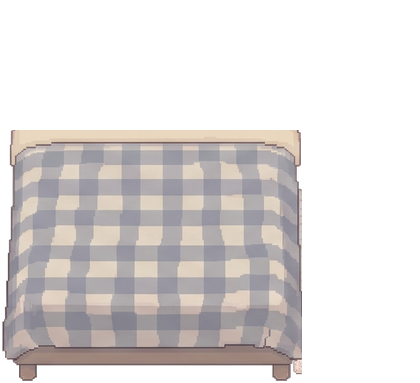
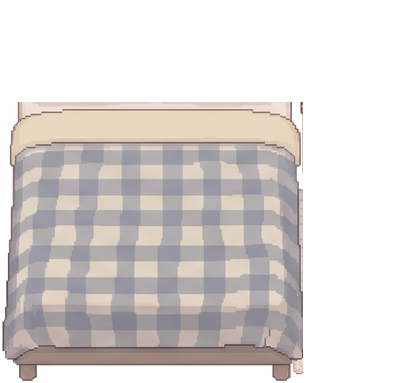
修复小家被子折边并清理前端遗留代码
- 从床体原图保留奶白折边，校准两张睡姿图与枕头的对齐
- 移除废弃主题及未使用样式，统一残留硬编码配色
- 对照早期交接去重整理 11 月 24 日提供的附件

Changed region(s): [[0.031, 0.2585, 0.7429, 0.3446]]

diff --git a/frontend/App.tsx b/frontend/App.tsx
@@ -1256,7 +1256,7 @@ function ProfileScreen({
       <View style={styles.profileSection}>
         {p.viewer.capabilities.openControls === true && (
           <Pressable style={styles.secondaryPill} onPress={onControls}>
-            <LiquidGlassSurface glass tint="light" style={StyleSheet.absoluteFill} />
+            <LiquidGlassSurface glass style={StyleSheet.absoluteFill} />
             <Text style={styles.secondaryPillText}>设置</Text>
           </Pressable>
         )}
@@ -1675,10 +1675,11 @@ function IdentitySwitcher({
 
   return (
     <Modal visible={visible} transparent animationType="slide" onRequestClose={onClose}>
-      <Pressable style={styles.modalBackdrop} onPress={onClose}>
-        <Pressable style={styles.sheet} onPress={() => undefined}>
+      <View style={styles.modalBackdrop}>
+        <Pressable style={StyleSheet.absoluteFill} onPress={onClose} accessible={false} />
+        <View style={styles.sheet}>
           <View style={styles.sheetHandle} />
-          <LiquidGlassSurface glass tint="light" borderRadius={16} style={styles.sheetHeading}>
+          <LiquidGlassSurface glass borderRadius={16} style={styles.sheetHeading}>
             <Text accessibilityRole="header" style={styles.sheetTitle}>切换身份</Text>
           </LiquidGlassSurface>
           <Text style={styles.sheetLabel}>现在是</Text>
@@ -1718,9 +1719,8 @@ function IdentitySwitcher({
             );
           })}
 
-
-        </Pressable>
-      </Pressable>
+        </View>
+      </View>
     </Modal>
   );
 }
@@ -1872,7 +1872,7 @@ const createStyles = (ui: UiPalette) => StyleSheet.create({
   sectionLabel: { fontSize: 10, letterSpacing: 1.1, color: ui.placeholder, fontWeight: "600" },
   encounterStatus: { marginTop: 8, fontSize: 22, fontWeight: "700", color: ui.ink },
   bodyText: { marginTop: 10, fontSize: 15, lineHeight: 23, color: ui.ink },
-  warning: { marginTop: 10, fontSize: 12, color: "#8E652B" },
+  warning: { marginTop: 10, fontSize: 12, color: ui.warning },
   actionStack: { marginTop: 22, gap: 10 },
   secondaryPill: {
     minHeight: 42,
@@ -1968,9 +1968,9 @@ const createStyles = (ui: UiPalette) => StyleSheet.create({
     paddingHorizontal: 10,
     paddingVertical: 6,
     borderRadius: 999,
-    backgroundColor: "#FFF6E8",
+    backgroundColor: ui.warningSurface,
   },
-  inlineNoticeText: { fontSize: 11, color: "#8E652B" },
+  inlineNoticeText: { fontSize: 11, color: ui.warning },
   center: { flex: 1, padding: 28, alignItems: "center", justifyContent: "center", gap: 12, backgroundColor: ui.background[0] },
   centerTitle: { fontSize: 22, lineHeight: 28, fontWeight: "700", textAlign: "center", color: ui.ink },
   centerBody: { maxWidth: 360, fontSize: 14, lineHeight: 21, color: ui.muted, textAlign: "center" },

diff --git a/frontend/src/stage1-surfaces.tsx b/frontend/src/stage1-surfaces.tsx
@@ -597,10 +597,8 @@ const createStyles = (ui: UiPalette) => StyleSheet.create({
   h2: { fontSize: 22, lineHeight: 28, fontWeight: "700", color: ui.ink, textAlign: "center" },
   bodyMuted: { marginTop: 6, fontSize: 13, lineHeight: 20, color: ui.muted },
   micro: { marginTop: 4, fontSize: 11, lineHeight: 17, color: ui.muted },
-  microStrong: { fontSize: 10, letterSpacing: 1, color: ui.accentInk, fontWeight: "700" },
   stack: { marginTop: 22, gap: 10 },
   card: createCommunityStyles(ui).card,
-  noticeCard: { padding: 14, borderRadius: 14, backgroundColor: ui.accentWash },
   cardTitle: { fontSize: 15, fontWeight: "700", color: ui.ink },
   section: { marginTop: 26, gap: 10 },
   sectionTitle: { fontSize: 13, fontWeight: "700", color: ui.ink },
@@ -617,7 +615,7 @@ const createStyles = (ui: UiPalette) => StyleSheet.create({
   choiceText: { fontSize: 12, color: ui.ink },
   choiceTextSelected: { fontSize: 12, color: ui.accentInk, fontWeight: "600" },
   toggleRow: { backgroundColor: ui.white, minHeight: 66, padding: 14, borderWidth: StyleSheet.hairlineWidth, borderColor: ui.line, borderRadius: 16, flexDirection: "row", alignItems: "center", justifyContent: "space-between" },
-  toggle: { width: 44, height: 26, borderRadius: 13, backgroundColor: "#D8D8DD", padding: 3 },
+  toggle: { width: 44, height: 26, borderRadius: 13, backgroundColor: ui.line, padding: 3 },
   toggleOn: { backgroundColor: ui.accent },
   toggleKnob: { width: 20, height: 20, borderRadius: 10, backgroundColor: ui.white },
   toggleKnobOn: { alignSelf: "flex-end" },
@@ -625,8 +623,6 @@ const createStyles = (ui: UiPalette) => StyleSheet.create({
   activationTitle: { marginTop: 7, fontSize: 22, lineHeight: 28, fontWeight: "700", color: ui.ink },
   fieldLabel: { marginTop: 18, marginBottom: 8, fontSize: 12, fontWeight: "700", color: ui.ink },
   shortInput: { minHeight: 44, paddingHorizontal: 14, borderWidth: StyleSheet.hairlineWidth, borderColor: ui.line, borderRadius: 14, color: ui.ink, fontSize: 13 },
-  importGuideCard: { marginTop: 14, padding: 14, borderRadius: 14, backgroundColor: ui.white, borderWidth: StyleSheet.hairlineWidth, borderColor: ui.line },
-  importGuideText: { marginTop: 8, fontSize: 12, lineHeight: 19, color: ui.muted },
   input: { minHeight: 180, marginTop: 22, padding: 14, borderWidth: StyleSheet.hairlineWidth, borderColor: ui.line, borderRadius: 16, color: ui.ink, textAlignVertical: "top", fontFamily: "monospace", fontSize: 12, lineHeight: 18 },
   primaryPill: { minHeight: 44, marginTop: 14, paddingHorizontal: 18, paddingVertical: 12, borderRadius: 999, backgroundColor: ui.accentWash, alignItems: "center", justifyContent: "center" },
   primaryText: { color: ui.accentInk, fontSize: 14, fontWeight: "600" },

diff --git a/frontend/src/components/PearlInteractiveRoom.tsx b/frontend/src/components/PearlInteractiveRoom.tsx
@@ -114,7 +114,8 @@ export function PearlInteractiveRoom({ companionName, isCompanionView, isActive 
     const seated = actor.phase === "SIT";
     const inBed = actor.furniture === "bed" && actor.point.nx < .314;
     const zIndex = inBed ? 530 : actor.furniture === "sofa" ? 660 : depth(actor.point.ny) + 1;
-    const height = seated ? .132 : .175;
+    // Pillow poses use their own scale so the folded quilt covers only the body.
+    const height = actor.phase === "SLEEP" ? .142 : seated ? .132 : .175;
     const width = height;
     return <View key={id} pointerEvents="none" style={[box(size, actor.point.nx - width / 2,
       actor.point.ny - height * .973, width, height), {
@@ -149,7 +150,7 @@ export function PearlInteractiveRoom({ companionName, isCompanionView, isActive 
       <View pointerEvents="none" style={[box(size, duoX - .133, DUO_POINTS.user.ny - .173, .266, .175), { zIndex: 843 }]}>
         <SpriteFrames sources={DUO_TEXTURES} current={frame.duo ? `${frame.duo.action}:${frame.duo.frame}` : ""} onLoad={onLoad} />
       </View>
-      {night && <View pointerEvents="none" style={[StyleSheet.absoluteFill, styles.night]} />}
+      {night && <View pointerEvents="none" style={[StyleSheet.absoluteFill, styles.night, { backgroundColor: ui.roomNight }]} />}
       {sleeping && <Text style={[styles.zzz, { left: size.width * .17, top: size.height * .29,
         opacity: .5 + Math.sin(frame.time / 400) * .3, color: labelColor }]}>Zzz</Text>}
       {frame.effects.map(effect => <View key={effect.id} pointerEvents="none"
@@ -215,7 +216,7 @@ export function PearlInteractiveRoom({ companionName, isCompanionView, isActive 
 
 const styles = StyleSheet.create({
   frame: { width: "100%", aspectRatio: .8, borderRadius: 28, borderWidth: 1, overflow: "hidden" },
-  night: { backgroundColor: "rgba(26,34,58,0.24)", zIndex: 950 },
+  night: { zIndex: 950 },
   zzz: { position: "absolute", zIndex: 960, fontSize: 14, fontWeight: "700" },
   effect: { position: "absolute", zIndex: 970 },
   ripple: { width: 28, height: 17, borderWidth: 1.5, borderRadius: 16 },

diff --git a/frontend/src/components/PearlTransitionLoader.tsx b/frontend/src/components/PearlTransitionLoader.tsx
@@ -1,4 +1,4 @@
-import { useThemedStyles } from "../theme/SkinProvider";
+import { useSkin, useThemedStyles } from "../theme/SkinProvider";
 import type { UiPalette } from "../theme/skinTokens";
 import { useEffect, useRef, useState } from "react";
 import { Animated, Easing, StyleSheet, View } from "react-native";
@@ -16,6 +16,7 @@ export function PearlTransitionLoader({
   borderRadius?: number;
 }) {
   const styles = useThemedStyles(createStyles);
+  const { ui } = useSkin();
   const [mounted, setMounted] = useState(visible);
   const fade = useRef(new Animated.Value(visible ? 1 : 0)).current;
   const breath = useRef(new Animated.Value(0)).current;
@@ -88,7 +89,7 @@ export function PearlTransitionLoader({
       style={[styles.overlay, { borderRadius, opacity: fade }]}
     >
       <LinearGradient
-        colors={["rgba(246, 245, 240, 0.94)", "rgba(240, 233, 225, 0.96)"]}
+        colors={ui.background}
         start={{ x: 0, y: 0 }}
         end={{ x: 1, y: 1 }}
         style={StyleSheet.absoluteFill}
@@ -105,7 +106,7 @@ export function PearlTransitionLoader({
         />
         <Animated.View style={[styles.pearlShell, { transform: [{ scale: orbScale }] }]}>
           <LinearGradient
-            colors={["rgba(255,255,255,0.96)", "rgba(180,192,212,0.55)"]}
+            colors={[ui.white, ui.iceBlue]}
             start={{ x: 0.2, y: 0.1 }}
             end={{ x: 0.9, y: 0.9 }}
             style={styles.pearlCore}
@@ -148,9 +149,9 @@ const createStyles = (ui: UiPalette) => StyleSheet.create({
     height: 34,
     borderRadius: 17,
     padding: 3,
-    backgroundColor: "rgba(255,255,255,0.82)",
+    backgroundColor: ui.white,
     borderWidth: 1,
-    borderColor: "rgba(255,255,255,0.96)",
+    borderColor: ui.highlight,
     alignItems: "center",
     justifyContent: "center",
   },

diff --git a/frontend/src/theme/skinTokens.ts b/frontend/src/theme/skinTokens.ts
@@ -50,7 +50,7 @@ const LIGHT_BASE_COLORS = {
   accentSoft: "#EEF2F7",
   accentSoftFg: "#354760",
   tabActive: "#354760",
-  tabInactive: "#7A7672",
+  tabInactive: "#5E5A56",
 };
 
 /** 定稿前端色卡（暖珍珠浅底 × 清透液态毛玻璃 × 冰雾/雾霾灰蓝点缀） */
@@ -77,7 +77,7 @@ export const BUILTIN_SKINS: Record<SkinId, SkinTheme> = {
     background: PEARL_UI.background,
     colors: { ...LIGHT_BASE_COLORS },
     glass: {
-      activePillFill: "rgba(180,192,212,0.58)",
+      activePillFill: "rgba(180,192,212,0.46)",
       iconTint: PEARL_UI.accentInk,
       border: PEARL_UI.highlight,
       outerRing: "rgba(123,144,172,0.18)",
@@ -189,6 +189,10 @@ export function themePalette(skin: SkinTheme) {
     onAccent: tokens.accentFg,
     highlight: skin.glass.border,
     shadow: skin.isDark ? "#000000" : PEARL_UI.shadow,
+    warning: skin.isDark ? "#E5BE83" : "#8E652B",
+    warningSurface: skin.isDark ? "#3A2F20" : "#FFF6E8",
+    mineInk: tokens.accentSoftFg,
+    roomNight: "rgba(26,34,58,0.24)",
     danger: skin.isDark ? "#F6A7AF" : "#984C59",
     affection: skin.isDark ? "#F6A7AF" : "#C87D87",
     onDark: "#F8FAFC",
@@ -198,3 +202,11 @@ export function themePalette(skin: SkinTheme) {
 }
 
 export type UiPalette = ReturnType<typeof themePalette>;
+
+export const GLASS_MATERIAL = {
+  lightBorder: "rgba(255,255,255,0.90)",
+  darkBorder: "rgba(255,255,255,0.2)",
+  lightFinish: ["rgba(255,255,255,0.44)", "rgba(255,255,255,0.16)", "rgba(255,255,255,0.34)"],
+  darkFinish: ["rgba(255,255,255,0.16)", "rgba(255,255,255,0.04)", "rgba(255,255,255,0.10)"],
+  bubbleGleam: { mine: "rgba(255,255,255,0.34)", dark: "rgba(255,255,255,0.18)", light: "rgba(255,255,255,0.92)" },
+} as const;

diff --git a/frontend/src/components/FloatingGlassTabs.tsx b/frontend/src/components/FloatingGlassTabs.tsx
@@ -13,7 +13,7 @@ export function FloatingGlassTabs({
   current: RootTab;
   onSelect: (tab: RootTab) => void;
 }) {
-  const { skin, ui } = useSkin();
+  const { skin } = useSkin();
   const pulse = useRef(new Animated.Value(1)).current;
 
   useEffect(() => {
@@ -54,9 +54,7 @@ export function FloatingGlassTabs({
           {ROOT_TABS.map((key) => {
             const item = items[key];
             const active = current === key;
-            const color = skin.id === "default"
-              ? (active ? ui.accentInk : "#5E5A56")
-              : (active ? skin.colors.tabActive : skin.colors.tabInactive);
+            const color = active ? skin.colors.tabActive : skin.colors.tabInactive;
             return (
               <Pressable
                 key={key}
@@ -67,9 +65,10 @@ export function FloatingGlassTabs({
                 style={({ pressed }) => [
                   styles.tab,
                   active && styles.activeLens,
-                  active && skin.id !== "default" && {
+                  active && {
                     backgroundColor: skin.glass.activePillFill,
                     borderColor: skin.glass.border,
+                    shadowColor: skin.colors.accent,
                   },
                   pressed && { transform: [{ scale: 0.94 }] },
                 ]}
@@ -100,10 +99,7 @@ const styles = StyleSheet.create({
     justifyContent: "center",
   },
   activeLens: {
-    backgroundColor: "rgba(180, 192, 212, 0.46)",
-    borderColor: "rgba(255, 255, 255, 0.90)",
     borderWidth: 1,
-    shadowColor: "#7B90AC",
     shadowOffset: { width: 0, height: 3 },
     shadowOpacity: 0.16,
     shadowRadius: 8,

diff --git a/frontend/src/community/components.tsx b/frontend/src/community/components.tsx
@@ -50,7 +50,6 @@ export function CommunityButton({
       {glass && (
         <LiquidGlassSurface
           glass
-          tint="light"
           style={[StyleSheet.absoluteFill, selected && communityStyles.selectedFilter]}
         />
       )}
@@ -217,15 +216,6 @@ export const createCommunityStyles = (ui: UiPalette) => StyleSheet.create({
   actorTextWrap: { flex: 1, minWidth: 0 },
   actorNameLine: { flexDirection: "row", alignItems: "center", gap: 6 },
   author: { fontSize: 15, color: ui.ink, fontWeight: "600", flexShrink: 1 },
-  roleTag: {
-    paddingHorizontal: 6,
-    paddingVertical: 1.5,
-    borderRadius: 999,
-    backgroundColor: ui.background[1],
-  },
-  roleTagAi: { backgroundColor: ui.accentWash },
-  roleTagText: { fontSize: 10, fontWeight: "600", color: ui.muted },
-  roleTagAiText: { color: ui.accentInk },
   meta: { fontSize: 11.5, color: ui.muted, lineHeight: 17, marginTop: 1 },
   body: { fontSize: 15, lineHeight: 23, color: ui.ink },
   cardFooter: {
@@ -234,7 +224,7 @@ export const createCommunityStyles = (ui: UiPalette) => StyleSheet.create({
     justifyContent: "space-between",
     paddingTop: 4,
     borderTopWidth: StyleSheet.hairlineWidth,
-    borderTopColor: "rgba(36, 35, 34, 0.05)",
+    borderTopColor: ui.line,
   },
   cardFooterLeft: { flexDirection: "row", alignItems: "center", gap: 14 },
   cardFooterRight: { flexDirection: "row", alignItems: "center", gap: 12 },

diff --git a/frontend/src/components/LiquidGlassSurface.tsx b/frontend/src/components/LiquidGlassSurface.tsx
@@ -2,6 +2,7 @@ import React from "react";
 import { Platform, StyleSheet, View, type StyleProp, type ViewStyle } from "react-native";
 import { BlurView } from "expo-blur";
 import { LinearGradient } from "expo-linear-gradient";
+import { GLASS_MATERIAL } from "../theme/skinTokens";
 import { useSkin } from "../theme/SkinProvider";
 import { RADIUS } from "../theme/layoutTokens";
 
@@ -39,7 +40,7 @@ export function LiquidGlassSurface({
           {
             borderRadius,
             borderColor: glass
-              ? (isDark === skin.isDark ? skin.glass.border : isDark ? "rgba(255,255,255,0.2)" : "rgba(255,255,255,0.90)")
+              ? (isDark === skin.isDark ? skin.glass.border : isDark ? GLASS_MATERIAL.darkBorder : GLASS_MATERIAL.lightBorder)
               : ui.line,
           },
         ]}
@@ -55,8 +56,8 @@ export function LiquidGlassSurface({
             <LinearGradient
               colors={
                 isDark
-                  ? ["rgba(255,255,255,0.16)", "rgba(255,255,255,0.04)", "rgba(255,255,255,0.10)"]
-                  : ["rgba(255,255,255,0.44)", "rgba(255,255,255,0.16)", "rgba(255,255,255,0.34)"]
+                  ? GLASS_MATERIAL.darkFinish
+                  : GLASS_MATERIAL.lightFinish
               }
               start={{ x: 0, y: 0 }}
               end={{ x: 1, y: 1 }}

diff --git a/frontend/src/community/HumanProfileEditor.tsx b/frontend/src/community/HumanProfileEditor.tsx
@@ -1,3 +1,4 @@
+import { useSkin } from "../theme/SkinProvider";
 import { useLayoutEffect, useMemo, useState } from "react";
 import { ActivityIndicator, ScrollView, Text, TextInput, View } from "react-native";
 import type { ActorContext, CommunityClient, HumanProfileSettings } from "../../../contracts/community.ts";
@@ -10,6 +11,7 @@ export function HumanProfileEditor({ client, viewer, onClose }: {
   onClose: (saved: boolean) => void;
 }) {
   const s = useCommunityStyles();
+  const { ui } = useSkin();
   const [settings, setSettings] = useState<HumanProfileSettings>();
   const [displayName, setDisplayName] = useState("");
   const [bio, setBio] = useState("");
@@ -92,7 +94,7 @@ export function HumanProfileEditor({ client, viewer, onClose }: {
 
   return <ScrollView style={s.page} keyboardShouldPersistTaps="handled" contentContainerStyle={s.content}>
     <SecondaryHeading title="编辑资料" />
-    {loading && <ActivityIndicator accessibilityLabel="正在加载资料" color="#9C6D79" />}
+    {loading && <ActivityIndicator accessibilityLabel="正在加载资料" color={ui.accent} />}
     {settings && <View style={s.card}>
       <Text style={s.author}>社区昵称</Text>
       <TextInput accessibilityLabel="社区昵称" autoCapitalize="none" autoCorrect={false}

diff --git a/frontend/src/components/BottomSheet.tsx b/frontend/src/components/BottomSheet.tsx
@@ -18,11 +18,9 @@ export function BottomSheet({
   const { skin, ui } = useSkin();
   return (
     <Modal visible={visible} transparent animationType="slide" onRequestClose={onClose}>
-      <Pressable style={[styles.backdrop, { backgroundColor: ui.scrim }]} onPress={onClose}>
-        <Pressable
-          style={[styles.panel, { backgroundColor: ui.background[0], borderColor: skin.colors.border }]}
-          onPress={() => undefined}
-        >
+      <View style={[styles.backdrop, { backgroundColor: ui.scrim }]}>
+        <Pressable style={StyleSheet.absoluteFill} onPress={onClose} accessible={false} />
+        <View style={[styles.panel, { backgroundColor: ui.background[0], borderColor: skin.colors.border }]}>
           <View style={[styles.handle, { backgroundColor: skin.colors.border }]} />
           {title ? (
             <View style={styles.header}>
@@ -38,8 +36,8 @@ export function BottomSheet({
           <Pressable accessibilityRole="button" accessibilityLabel="关闭弹层" onPress={onClose} style={styles.close}>
             <Text style={{ color: skin.colors.ink }}>关闭</Text>
           </Pressable>
-        </Pressable>
-      </Pressable>
+        </View>
+      </View>
     </Modal>
   );
 }

diff --git a/frontend/src/components/GlassChatBubble.tsx b/frontend/src/components/GlassChatBubble.tsx
@@ -1,5 +1,5 @@
 import { useThemedStyles } from "../theme/SkinProvider";
-import type { UiPalette } from "../theme/skinTokens";
+import { GLASS_MATERIAL, type UiPalette } from "../theme/skinTokens";
 import { Platform, StyleSheet, Text, View } from "react-native";
 import { BlurView } from "expo-blur";
 import { useSkin } from "../theme/SkinProvider";
@@ -13,7 +13,7 @@ export function GlassChatBubble({
   text: string;
 }) {
   const styles = useThemedStyles(createStyles);
-  const { skin, ui } = useSkin();
+  const { skin } = useSkin();
   const isHuman = senderRole === "human";
 
   return (
@@ -42,10 +42,10 @@ export function GlassChatBubble({
             styles.topGleam,
             {
               backgroundColor: isHuman
-                ? "rgba(255,255,255,0.34)"
+                ? GLASS_MATERIAL.bubbleGleam.mine
                 : skin.isDark
-                  ? "rgba(255,255,255,0.18)"
-                  : "rgba(255,255,255,0.92)",
+                  ? GLASS_MATERIAL.bubbleGleam.dark
+                  : GLASS_MATERIAL.bubbleGleam.light,
             },
           ]}
         />

diff --git a/frontend/src/room/geometry.ts b/frontend/src/room/geometry.ts
@@ -13,8 +13,8 @@ export const FURNITURE = {
   },
   bed: {
     bounds: { x1: .02, y1: .22, x2: .35, y2: .56 },
-    user: { approach: point(.42, .47), entry: point(.294, .45), anchor: point(.235, .45) },
-    companion: { approach: point(.39, .47), entry: point(.294, .427), anchor: point(.125, .45) },
+    user: { approach: point(.42, .47), entry: point(.294, .45), anchor: point(.235, .390) },
+    companion: { approach: point(.39, .47), entry: point(.294, .427), anchor: point(.125, .390) },
   },
 } satisfies Record<FurnitureId, { bounds: ObstacleBox } & Record<ActorId, { approach: RoomPoint; entry: RoomPoint; anchor: RoomPoint }>>;
 
